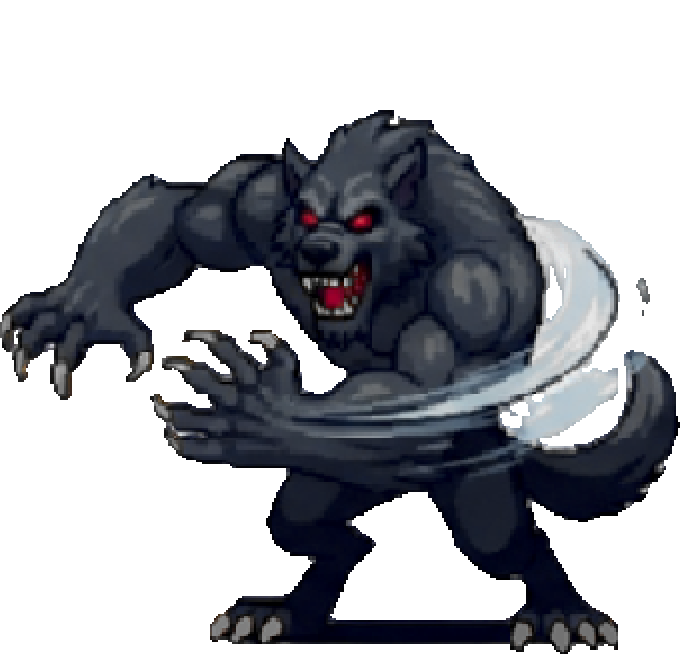
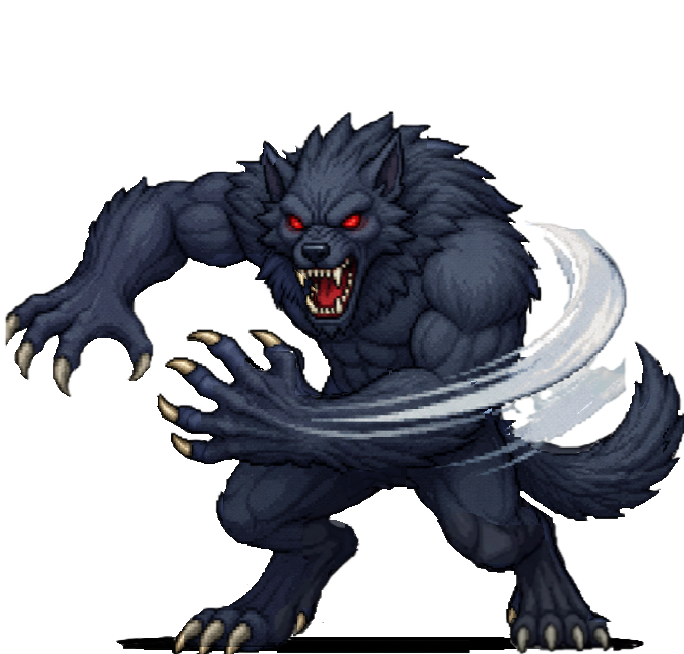
feat(battle): adiciona novos pares de ataque

Changed region(s): [[0.0, 0.1529, 1.0, 1.0]]

diff --git a/JogoWeb/e2e/battle-story-endings.spec.ts b/JogoWeb/e2e/battle-story-endings.spec.ts
@@ -1,0 +1,60 @@
+import { expect, test } from '@playwright/test'
+
+import { openBattleTest } from './support/game'
+
+test.skip(
+  ({ browserName }) => browserName !== 'chromium',
+  'As histórias completas rodam no Chrome desktop e mobile; os demais navegadores recebem o smoke test.',
+)
+
+test('vitória com pouca vida abre o final A Maldição do Pidão', async ({ page }) => {
+  await openBattleTest(page, 'pidao')
+  await page.getByRole('button', { name: 'Atacar' }).click()
+
+  const victory = page.getByRole('dialog', { name: 'Vitória' })
+  await expect(victory).toBeVisible({ timeout: 12_000 })
+  await victory.getByRole('button', { name: 'Prosseguir' }).click()
+
+  const ending = page.getByRole('dialog', { name: 'Final: A Maldição do Pidão' })
+  await expect(ending).toBeVisible()
+  await expect(ending.getByText('— Eu consegui!')).toBeVisible()
+
+  await ending.getByRole('button', { name: 'Continuar' }).click()
+  await expect(ending.getByLabel('Transformação do Pidão')).toBeVisible()
+
+  await ending.getByRole('button', { name: 'Continuar' }).click()
+  await expect(ending.getByRole('heading', { name: 'UM PIDÃO!!!' })).toBeVisible({
+    timeout: 5_000,
+  })
+  await expect(ending.getByRole('status', { name: 'Final obtido' })).toContainText(
+    'Você se tornou um Lobisomem Pidão',
+  )
+  await expect(ending.getByRole('button', { name: 'Voltar ao Menu' })).toBeVisible()
+})
+
+test('vitória perfeita abre o final Sopa de Lobo', async ({ page }) => {
+  await openBattleTest(page, 'perfect')
+  await page.getByRole('button', { name: 'Atacar' }).click()
+
+  const victory = page.getByRole('dialog', { name: 'Vitória' })
+  await expect(victory).toBeVisible({ timeout: 12_000 })
+  await victory.getByRole('button', { name: 'Prosseguir' }).click()
+
+  const ending = page.getByRole('dialog', { name: 'Final: Sopa de Lobo' })
+  await expect(ending).toBeVisible()
+  await expect(ending.getByText(/Contra qualquer lógica/)).toBeVisible()
+
+  await ending.getByRole('button', { name: 'Continuar' }).click()
+  await expect(ending.getByText('— É só isso?')).toBeVisible()
+
+  await ending.getByRole('button', { name: 'Continuar' }).click()
+  await expect(ending.getByText('Hoje vai ter sopa.')).toBeVisible()
+
+  await ending.getByRole('button', { name: 'Continuar' }).click()
+  await expect(ending.getByText('— Sopa? Sopa de quê mesmo?')).toBeVisible()
+
+  await ending.getByRole('button', { name: 'Sopa de lobo!' }).click()
+  await expect(ending.getByRole('heading', { name: 'SOPA DE LOBO!' })).toBeVisible()
+  await expect(ending.getByRole('status', { name: 'Final obtido' })).toContainText('SOPA DE LOBO!')
+  await expect(ending.getByRole('button', { name: 'Voltar ao Menu' })).toBeVisible()
+})

diff --git a/JogoWeb/src/battle/useBattleGame.test.tsx b/JogoWeb/src/battle/useBattleGame.test.tsx
@@ -13,6 +13,20 @@ const leftAttackRandom: RandomSource = {
   shuffle: <T,>(values: readonly T[]) => [...values],
 }
 
+const upwardScratchRandom: RandomSource = {
+  boolean: () => true,
+  integer: (minimum) => minimum,
+  pick: <T,>(values: readonly T[]) => values[2] as T,
+  shuffle: <T,>(values: readonly T[]) => [...values],
+}
+
+const lateralCutRandom: RandomSource = {
+  boolean: () => true,
+  integer: (minimum) => minimum,
+  pick: <T,>(values: readonly T[]) => values[1] as T,
+  shuffle: <T,>(values: readonly T[]) => [...values],
+}
+
 function createAudioMock(): AudioService {
   return {
     play: vi.fn(),
@@ -43,6 +57,43 @@ describe('useBattleGame', () => {
     expect(result.current.state.enemyAction).toEqual({ kind: 'stunned' })
     expect(result.current.state.playerHp).toBe(100)
     expect(audio.play).toHaveBeenCalledWith('parry')
+    unmount()
+  })
+
+  it('mantÃ©m o mesmo tipo de golpe entre a preparaÃ§Ã£o e o ataque', async () => {
+    const audio = createAudioMock()
+    const { result, unmount } = renderHook(() =>
+      useBattleGame(audio, { random: upwardScratchRandom }),
+    )
+
+    await act(async () => vi.advanceTimersByTimeAsync(3_000))
+    expect(result.current.state.enemyAction).toEqual({ kind: 'preparing', direction: 'left' })
+    expect(result.current.state.enemyImage).toContain(
+      'psicopata_preparando_arranhada_para_cima_esquerda.webp',
+    )
+
+    await act(async () => vi.advanceTimersByTimeAsync(700))
+    expect(result.current.state.enemyAction).toEqual({ kind: 'attacking', direction: 'left' })
+    expect(result.current.state.enemyImage).toContain('psicopata_arranhada_para_cima_esquerda.webp')
+    unmount()
+  })
+
+  it('reduz a preparaÃ§Ã£o do corte lateral sem mudar sua direÃ§Ã£o', async () => {
+    const audio = createAudioMock()
+    const { result, unmount } = renderHook(() =>
+      useBattleGame(audio, { random: lateralCutRandom }),
+    )
+
+    await act(async () => vi.advanceTimersByTimeAsync(3_000))
+    expect(result.current.state.enemyAction).toEqual({ kind: 'preparing', direction: 'left' })
+    expect(result.current.state.enemyImage).toContain('psicopata_preparando_corte_lateral_esquerda.webp')
+
+    await act(async () => vi.advanceTimersByTimeAsync(449))
+    expect(result.current.state.enemyAction).toEqual({ kind: 'preparing', direction: 'left' })
+
+    await act(async () => vi.advanceTimersByTimeAsync(1))
+    expect(result.current.state.enemyAction).toEqual({ kind: 'attacking', direction: 'left' })
+    expect(result.current.state.enemyImage).toContain('psicopata_corte_lateral_esquerda.webp')
     unmount()
   })
 

diff --git a/JogoWeb/src/battle/useBattleGame.ts b/JogoWeb/src/battle/useBattleGame.ts
@@ -287,19 +287,20 @@ export function useBattleGame(audio: AudioService, options: BattleGameOptions = 
         )
 
         const direction: AttackDirection = random.boolean() ? 'left' : 'right'
+        const sequence = random.pick(images.enemy.attackSequences)
         commit((current) => ({
           ...current,
           enemyAction: { kind: 'preparing', direction },
           enemyImage:
-            direction === 'left' ? images.enemy.preparingLeft : images.enemy.preparingRight,
+            direction === 'left' ? sequence.preparingLeft : sequence.preparingRight,
         }))
-        await delay(BATTLE_TIMINGS.enemyPreparing, controller.signal)
+        await delay(sequence.preparingDuration, controller.signal)
 
         commit((current) => ({
           ...current,
           enemyAction: { kind: 'attacking', direction },
           enemyImage:
-            direction === 'left' ? images.enemy.attackingLeft : images.enemy.attackingRight,
+            direction === 'left' ? sequence.attackingLeft : sequence.attackingRight,
         }))
         await delay(BATTLE_TIMINGS.enemyAttackWindow, controller.signal)
 
@@ -524,7 +525,10 @@ export function useBattleGame(audio: AudioService, options: BattleGameOptions = 
       const hitController = new AbortController()
       enemyHitController.current = hitController
       const hitImage = images.enemy.hit[comboStep.current % images.enemy.hit.length]
-      commit((battle) => ({ ...battle, enemyImage: hitImage ?? images.enemy.stunned }))
+      commit((battle) => ({
+        ...battle,
+        enemyImage: hitImage ?? images.enemy.stunned,
+      }))
 
       const finishEnemyHit = async () => {
         await delay(BATTLE_TIMINGS.enemyHit, hitController.signal)

diff --git a/JogoWeb/src/services/assetPaths.ts b/JogoWeb/src/services/assetPaths.ts
@@ -21,10 +21,29 @@ export const images = {
   killers: [optimized('terrifier'), optimized('lobisomem'), optimized('ghostface')] as const,
   enemy: {
     idle: optimized('psicopata_parado'),
-    preparingLeft: optimized('psicopata_preparando_esquerda'),
-    preparingRight: optimized('psicopata_preparando_direita'),
-    attackingLeft: optimized('psicopata_atacando_esquerda'),
-    attackingRight: optimized('psicopata_atacando_direita'),
+    attackSequences: [
+      {
+        preparingLeft: optimized('psicopata_preparando_esquerda'),
+        attackingLeft: optimized('psicopata_atacando_esquerda'),
+        preparingRight: optimized('psicopata_preparando_direita'),
+        attackingRight: optimized('psicopata_atacando_direita'),
+        preparingDuration: 600,
+      },
+      {
+        preparingLeft: optimized('psicopata_preparando_corte_lateral_esquerda'),
+        attackingLeft: optimized('psicopata_corte_lateral_esquerda'),
+        preparingRight: optimized('psicopata_preparando_corte_lateral_direita'),
+        attackingRight: optimized('psicopata_corte_lateral_direita'),
+        preparingDuration: 500,
+      },
+      {
+        preparingLeft: optimized('psicopata_preparando_arranhada_para_cima_esquerda'),
+        attackingLeft: optimized('psicopata_arranhada_para_cima_esquerda'),
+        preparingRight: optimized('psicopata_preparando_arranhada_para_cima_direita'),
+        attackingRight: optimized('psicopata_arranhada_para_cima_direita'),
+        preparingDuration: 700,
+      },
+    ] as const,
     stunned: optimized('psicopata_atordoado'),
     hit: [1, 2, 3, 4].map((step) => optimized(`psicopata_atingido${step}`)),
     defeated: optimized('psicopata_derrotado'),

diff --git a/JogoWeb/src/services/AudioService.test.ts b/JogoWeb/src/services/AudioService.test.ts
@@ -45,6 +45,23 @@ describe('AudioService', () => {
     expect(service.activeStreamCount).toBe(0)
   })
 
+  it('reutiliza o Ã¡udio prÃ©-carregado ao iniciar uma trilha', () => {
+    const created: FakeAudio[] = []
+    const service = new AudioService(10, () => {
+      const audio = new FakeAudio()
+      created.push(audio)
+      return audio as unknown as HTMLAudioElement
+    })
+
+    service.preload(['menuTheme'])
+    service.play('menuTheme', { loop: true, volume: 0.3 })
+
+    expect(created).toHaveLength(1)
+    expect(created[0]?.load).toHaveBeenCalledOnce()
+    expect(created[0]?.play).toHaveBeenCalledOnce()
+    expect(created[0]?.volume).toBe(0.3)
+  })
+
   it('interrompe somente as vozes do som solicitado', () => {
     const created: FakeAudio[] = []
     const service = new AudioService(10, () => {

diff --git a/JogoWeb/src/screens/BattleScreen/BattleScreen.tsx b/JogoWeb/src/screens/BattleScreen/BattleScreen.tsx
@@ -93,10 +93,14 @@ export function BattleScreen({ onBackToMenu, gameOptions }: BattleScreenProps) {
     preloadImages([
       images.cabin,
       images.enemy.idle,
-      images.enemy.preparingLeft,
-      images.enemy.preparingRight,
-      images.enemy.attackingLeft,
-      images.enemy.attackingRight,
+      ...images.enemy.attackSequences.flatMap(
+        ({ preparingLeft, attackingLeft, preparingRight, attackingRight }) => [
+          preparingLeft,
+          attackingLeft,
+          preparingRight,
+          attackingRight,
+        ],
+      ),
       images.enemy.stunned,
       images.enemy.defeated,
       ...images.enemy.hit,

diff --git a/JogoWeb/src/services/gameAssetPreloader.ts b/JogoWeb/src/services/gameAssetPreloader.ts
@@ -12,10 +12,14 @@ const gameplayImages = [
   images.blood,
   ...images.killers,
   images.enemy.idle,
-  images.enemy.preparingLeft,
-  images.enemy.preparingRight,
-  images.enemy.attackingLeft,
-  images.enemy.attackingRight,
+  ...images.enemy.attackSequences.flatMap(
+    ({ preparingLeft, attackingLeft, preparingRight, attackingRight }) => [
+      preparingLeft,
+      attackingLeft,
+      preparingRight,
+      attackingRight,
+    ],
+  ),
   images.enemy.stunned,
   ...images.enemy.hit,
   images.enemy.defeated,

diff --git a/JogoWeb/src/services/AudioService.ts b/JogoWeb/src/services/AudioService.ts
@@ -72,7 +72,8 @@ export class AudioService {
       this.stopVoice(this.activeVoices[0])
     }
 
-    const audio = this.factory(audioCatalog[key])
+    const audio = this.preloaded.get(key) ?? this.factory(audioCatalog[key])
+    this.preloaded.delete(key)
     audio.preload = 'auto'
     audio.volume = options.prepareMuted
       ? 0

diff --git a/JogoWeb/src/screens/BattleScreen/BattleScreen.module.css b/JogoWeb/src/screens/BattleScreen/BattleScreen.module.css
@@ -187,7 +187,7 @@
 .topUi {
   position: absolute;
   z-index: 3;
-  top: 120px;
+  top: 80px;
   right: 0;
   left: 0;
 }
